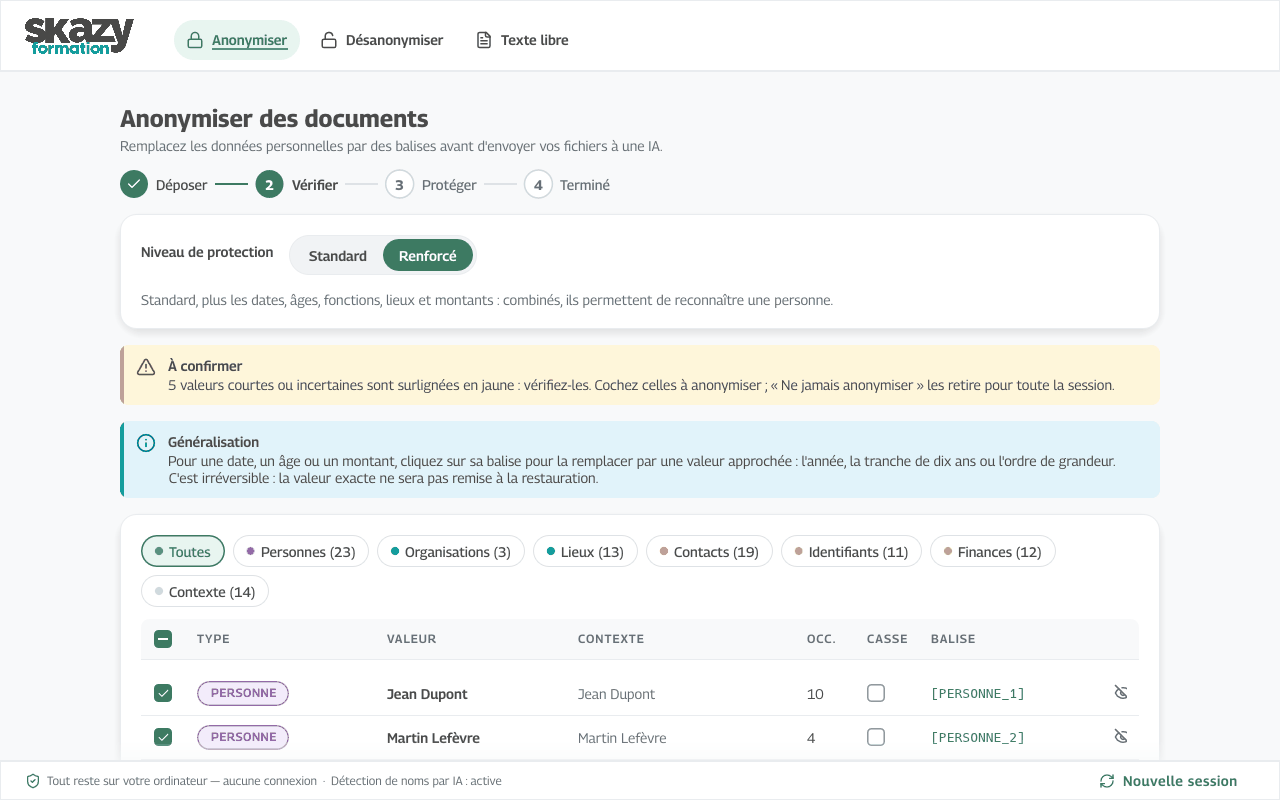
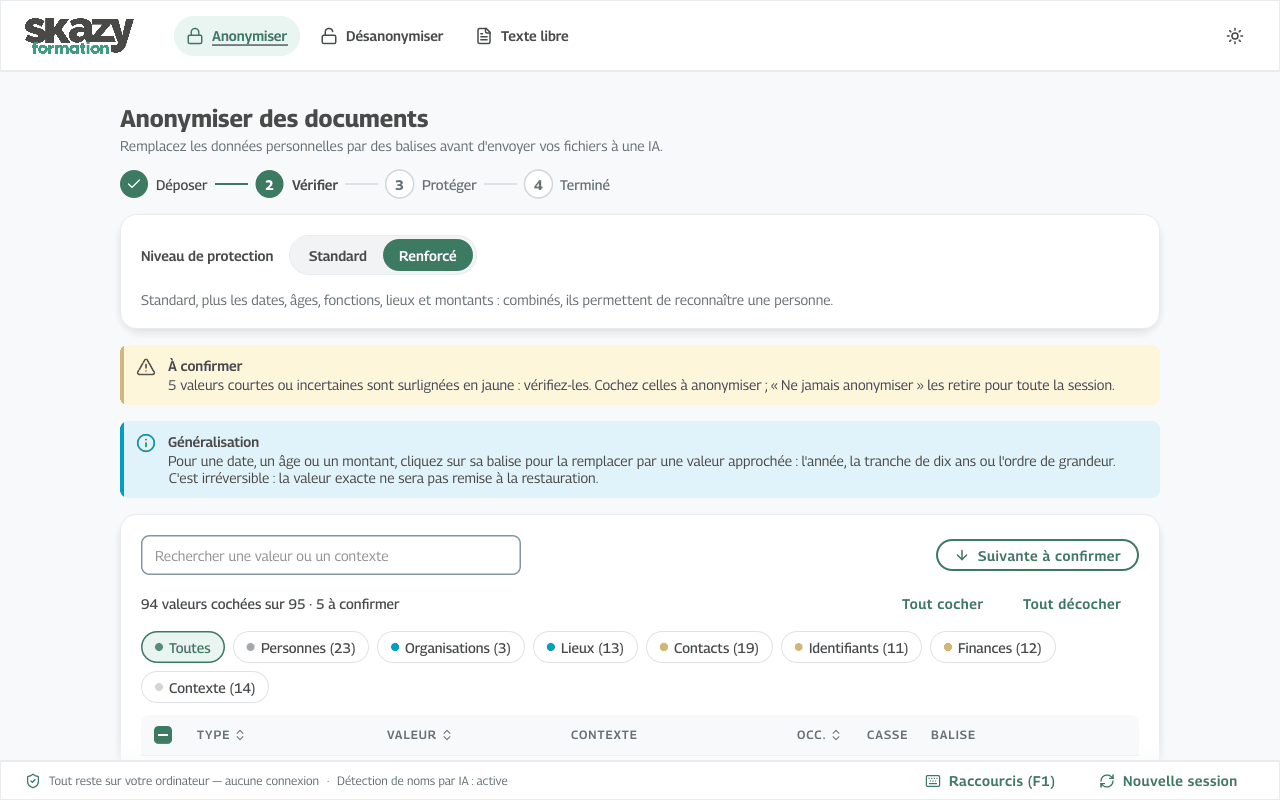
docs(site): captures de la nouvelle interface, en clair et en sombre ; lien de téléchargement dans le README
La page affiche la capture sombre quand le système est en mode sombre.

diff --git a/site/index.html b/site/index.html
@@ -79,7 +79,10 @@
       <p class="sub" id="hero-os">Pour Windows et macOS. Aucune installation, aucune connexion à Internet.</p>
     </div>
     <figure class="shot">
-      <img src="captures/anonymiser_2_verifier_1280x800.png" width="1280" height="800" alt="Écran de vérification de l'application : la liste des données détectées, avec leur type, leur balise (par exemple [PERSONNE_1]) et le niveau de protection Standard ou Renforcé.">
+      <picture>
+        <source srcset="captures/anonymiser_2_verifier_sombre_1280x800.png" media="(prefers-color-scheme: dark)">
+        <img src="captures/anonymiser_2_verifier_1280x800.png" width="1280" height="800" alt="Écran de vérification de l'application : la liste des données détectées, avec leur type, leur balise (par exemple [PERSONNE_1]) et le niveau de protection Standard ou Renforcé.">
+      </picture>
       <figcaption>Vous relisez et validez la liste avant toute anonymisation.</figcaption>
     </figure>
   </div>
@@ -119,7 +122,10 @@
     <p class="note" style="margin-top:12px">L'IA répond en réutilisant les balises ; Anonymiseur les remplace par les vraies valeurs. Les noms de cet exemple sont fictifs.</p>
 
     <figure class="shot" style="margin-top:32px">
-      <img src="captures/desanonymiser_3_resultat_1280x800.png" width="1280" height="800" loading="lazy" alt="Écran de désanonymisation : la table de correspondance est ouverte et la réponse de l'IA, avec ses balises, est collée à droite.">
+      <picture>
+        <source srcset="captures/desanonymiser_3_resultat_sombre_1280x800.png" media="(prefers-color-scheme: dark)">
+        <img src="captures/desanonymiser_3_resultat_1280x800.png" width="1280" height="800" loading="lazy" alt="Écran de désanonymisation : la table de correspondance est ouverte et la réponse de l'IA, avec ses balises, est collée à droite.">
+      </picture>
       <figcaption>Désanonymisation : la table est ouverte, la réponse de l'IA est collée.</figcaption>
     </figure>
   </div>
@@ -188,7 +194,10 @@
       </div>
     </div>
     <figure class="shot" style="margin-top:32px">
-      <img src="captures/anonymiser_4_termine_1280x800.png" width="1280" height="800" loading="lazy" alt="Écran de fin d'anonymisation : pour chaque fichier, le nombre de remplacements, le résultat du contrôle de fuite et le risque de ré-identification.">
+      <picture>
+        <source srcset="captures/anonymiser_4_termine_sombre_1280x800.png" media="(prefers-color-scheme: dark)">
+        <img src="captures/anonymiser_4_termine_1280x800.png" width="1280" height="800" loading="lazy" alt="Écran de fin d'anonymisation : pour chaque fichier, le nombre de remplacements, le résultat du contrôle de fuite et le risque de ré-identification.">
+      </picture>
       <figcaption>Pour chaque fichier : contrôle de fuite et rapport de risque.</figcaption>
     </figure>
   </div>

diff --git a/site/styles.css b/site/styles.css
@@ -60,6 +60,7 @@ header.top{border-bottom:1px solid var(--border);background:var(--bg)}
 .hero .sub{color:var(--muted);font-size:.95rem;margin:12px 0 0}
 .badge{display:inline-block;padding:2px 12px;border-radius:9999px;background:var(--tint);color:var(--tint-text);font-size:.78rem;font-weight:700;letter-spacing:.06em;text-transform:uppercase;margin-bottom:12px}
 .shot{margin:0}
+.shot picture{display:block}
 .shot img{display:block;width:100%;height:auto;border-radius:16px;box-shadow:var(--shadow);border:1px solid var(--border)}
 .shot figcaption{color:var(--muted);font-size:.9rem;margin-top:8px}
 @media(min-width:860px){.hero .wrap{grid-template-columns:1fr 1.1fr}}

diff --git a/site/LISEZMOI.md b/site/LISEZMOI.md
@@ -12,7 +12,7 @@ Déploiement : `.github/workflows/pages.yml` (push sur `main` touchant `site/**`
 | `img/logo-color.png`, `img/logo-white-color.png`, `img/icon-256.png` | `assets/charte/` |
 | `img/LICENSE-lucide.txt` | `assets/charte/icons/LICENSE` (ISC) |
 | icônes | Lucide 0.460.0 (`assets/charte/icons/*.svg`), intégrées en sprite SVG dans `index.html` |
-| `captures/*.png` | `app/tests/snapshots/<nom>_1280x800.png`, réduites à 128 couleurs |
+| `captures/*.png` | `app/tests/snapshots/<nom>_1280x800.png` et `<nom>_sombre_1280x800.png` (affichée si le système est en mode sombre), réduites à 128 couleurs |
 | `empreintes.json` | **généré au déploiement** à partir du `SHA256SUMS` de la dernière release ; absent du dépôt |
 
 ## Remplacer les captures

diff --git a/README.md b/README.md
@@ -4,7 +4,7 @@ Anonymiseur remplace les données sensibles d'un document (noms, adresses, numé
 
 Il s'adresse aux apprenants et aux formateurs qui veulent utiliser une IA sur des documents contenant des données personnelles. C'est un projet de Skazy Formation, libre sous licence AGPL-3.0.
 
-<!-- À COMPLÉTER : lien de téléchargement -->
+**[Télécharger pour Windows ou macOS](https://gharel.github.io/anonymiseur/)** : page de présentation, empreintes SHA-256 et lien d'analyse VirusTotal pour chaque fichier. Les exécutables sont aussi dans les [publications du dépôt](https://github.com/gharel/anonymiseur/releases/latest).
 
 ## Le parcours en trois étapes
 
